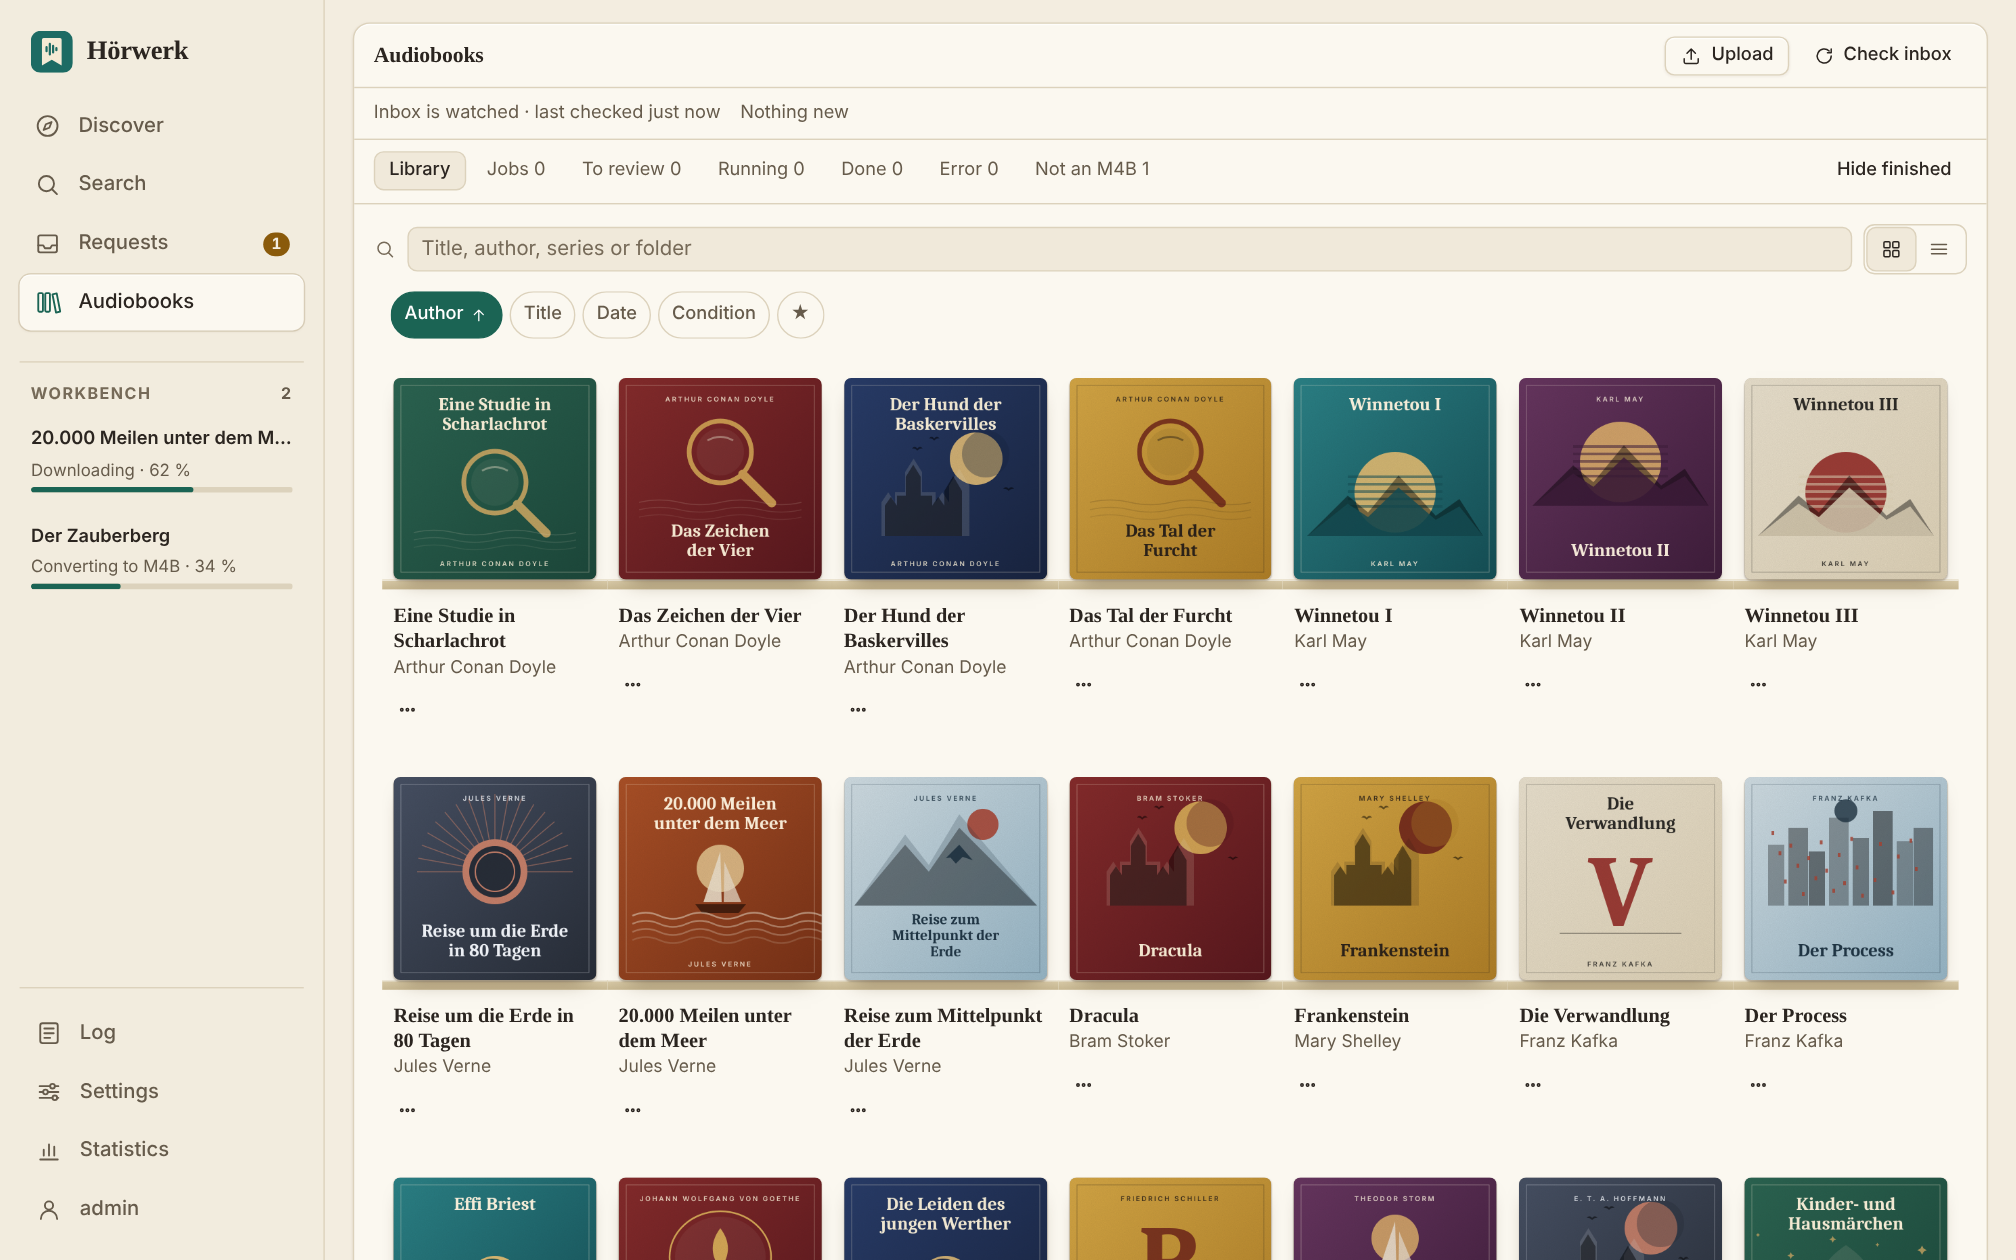
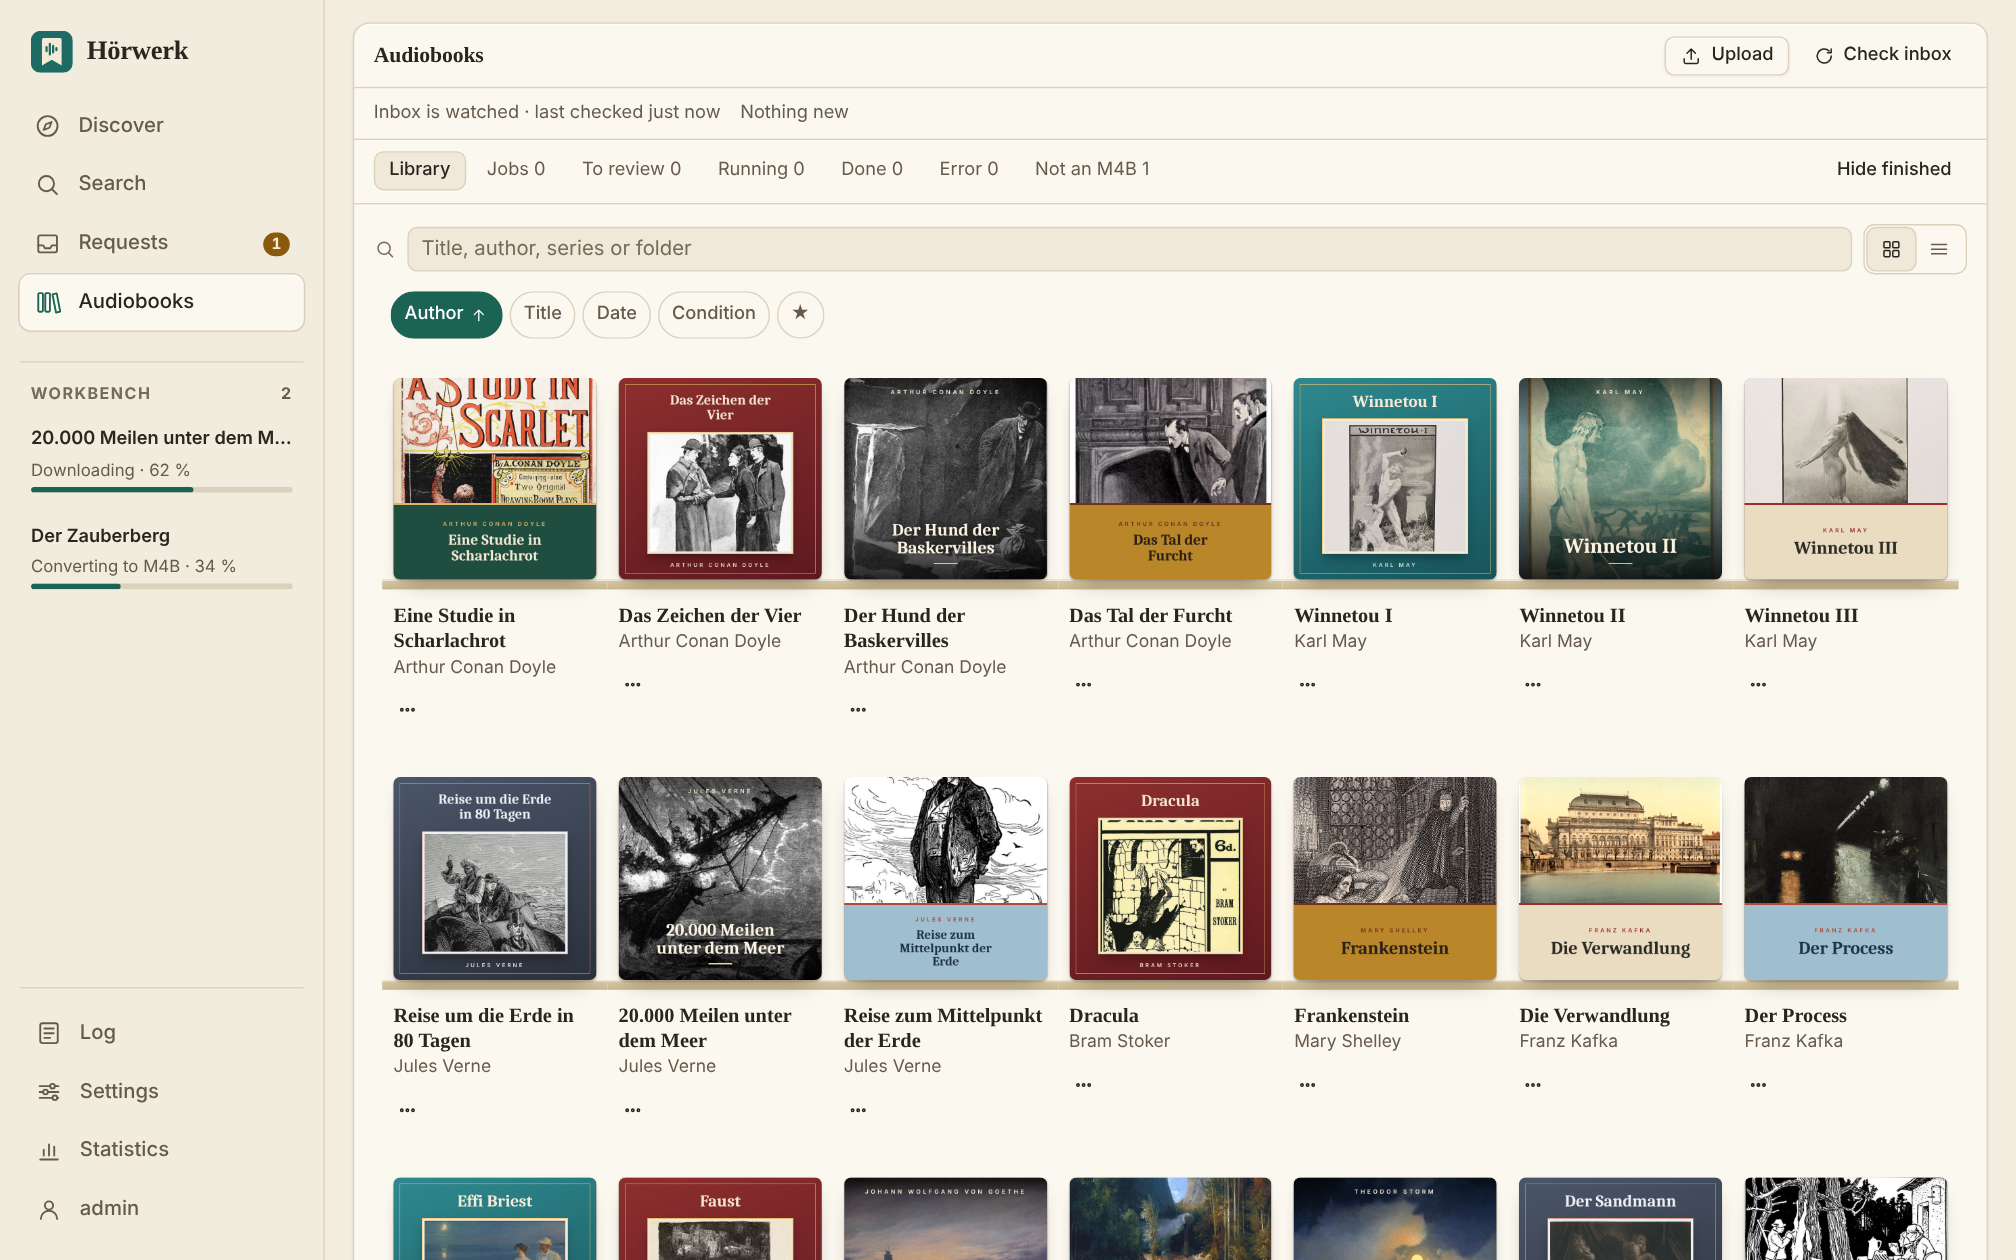
Screenshots: covers with public-domain artwork from Wikimedia Commons
Each demo book now shows a public-domain picture (original illustrations
such as Paget, Schneider, Wyeth, Tenniel, or paintings such as Friedrich,
Krøyer, Aivazovsky) in one of three layouts with own typography. Only
files that Commons marks as public domain are used; artist, licence and
source are listed in docs/screenshots/CREDITS.md.

Claude-Session: https://claude.ai/code/session_01N1omeBwFWsjEMRmz9BAzC7

diff --git a/docs/screenshots/CREDITS.md b/docs/screenshots/CREDITS.md
@@ -1,0 +1,49 @@
+# Pictures in the screenshots
+
+The covers of the demo library combine public-domain artwork from Wikimedia Commons with Hörwerk's own typography.
+The books are public-domain works. `scripts/screenshots/shoot.mjs` makes the screenshots.
+
+| Book | Artist | Licence | Source |
+|---|---|---|---|
+| Eine Studie in Scharlachrot | David Henry Friston (1887-12) | Public domain | [A Study in Scarlet from Beeton's Christmas Annual 1887.jpg](https://commons.wikimedia.org/wiki/File:A_Study_in_Scarlet_from_Beeton%27s_Christmas_Annual_1887.jpg) |
+| Das Zeichen der Vier | Sidney Paget (1892) | Public domain | [Sidney Paget - The Adventure of the Speckled Band 01.jpg](https://commons.wikimedia.org/wiki/File:Sidney_Paget_-_The_Adventure_of_the_Speckled_Band_01.jpg) |
+| Der Hund der Baskervilles | Sidney Paget (1860-1908) (1902) | Public domain | [Houn-42 - Frontispiece (Hound of Baskervilles).jpg](https://commons.wikimedia.org/wiki/File:Houn-42_-_Frontispiece_(Hound_of_Baskervilles).jpg) |
+| Das Tal der Furcht | Sidney Paget (1860 - 1908) (1904) | Public domain | [Sherlock Holmes - The Adventure of the Abbey Grange - Sidney Paget.jpg](https://commons.wikimedia.org/wiki/File:Sherlock_Holmes_-_The_Adventure_of_the_Abbey_Grange_-_Sidney_Paget.jpg) |
+| Winnetou I | Sascha Schneider (between 1904 and 1905) | Public domain | [Sascha Schneider Empor zum Licht 07 Winnetou I.jpg](https://commons.wikimedia.org/wiki/File:Sascha_Schneider_Empor_zum_Licht_07_Winnetou_I.jpg) |
+| Winnetou II | Sascha Schneider (1905) | Public domain | [Karl May Winnetou II Schneider 001.jpg](https://commons.wikimedia.org/wiki/File:Karl_May_Winnetou_II_Schneider_001.jpg) |
+| Winnetou III | Sascha Schneider (between 1904 and 1905) | Public domain | [Sascha Schneider Empor zum Licht 09 Winnetou III.jpg](https://commons.wikimedia.org/wiki/File:Sascha_Schneider_Empor_zum_Licht_09_Winnetou_III.jpg) |
+| Reise um die Erde in 80 Tagen | Alphonse de Neuville (1835-1885) and/or Léon Benett (1838-1917) (1872) | Public domain | ['Around the World in Eighty Days' by Neuville and Benett 18.jpg](https://commons.wikimedia.org/wiki/File:%27Around_the_World_in_Eighty_Days%27_by_Neuville_and_Benett_18.jpg) |
+| 20.000 Meilen unter dem Meer | Alphonse de Neuville / Édouard Riou (1870) | Public domain | [Giant squid twenty thousand leagues under the sea.jpg](https://commons.wikimedia.org/wiki/File:Giant_squid_twenty_thousand_leagues_under_the_sea.jpg) |
+| Reise zum Mittelpunkt der Erde | Édouard Riou (1864) | Public domain | ['Journey to the Center of the Earth' by Édouard Riou 16.jpg](https://commons.wikimedia.org/wiki/File:%27Journey_to_the_Center_of_the_Earth%27_by_%C3%89douard_Riou_16.jpg) |
+| Dracula | AnonymousUnknown author (1901) | Public domain | [Dracula Archibald Constable and Company 1901.jpg](https://commons.wikimedia.org/wiki/File:Dracula_Archibald_Constable_and_Company_1901.jpg) |
+| Frankenstein | Theodor von Holst (1831) | Public domain | [Frontispiece to Frankenstein 1831.jpg](https://commons.wikimedia.org/wiki/File:Frontispiece_to_Frankenstein_1831.jpg) |
+| Die Verwandlung | ? (between 1890 and 1900) | Public domain | [National Theatre, Prague, Bohemia, Austro-Hungary WDL2630.png](https://commons.wikimedia.org/wiki/File:National_Theatre,_Prague,_Bohemia,_Austro-Hungary_WDL2630.png) |
+| Der Process | Lesser Ury (circa 1920) | Public domain | [Lesser Ury - Nächtliche Strassenszene, Berlin (1920).jpg](https://commons.wikimedia.org/wiki/File:Lesser_Ury_-_N%C3%A4chtliche_Strassenszene,_Berlin_(1920).jpg) |
+| Effi Briest | Peder Severin Krøyer (1899) | Public domain | [P S Krøyer 1899 - Sommeraften ved Skagens strand. Kunstneren og hans hustru.jpg](https://commons.wikimedia.org/wiki/File:P_S_Kr%C3%B8yer_1899_-_Sommeraften_ved_Skagens_strand._Kunstneren_og_hans_hustru.jpg) |
+| Faust | Print made by: Eugène Delacroix Printed by: Villain (1827) | Public domain | [Méphistophélès apparaissant à Faust (Mephistopheles appearing to Faust) (BM 1924,1014.7.6).jpg](https://commons.wikimedia.org/wiki/File:M%C3%A9phistoph%C3%A9l%C3%A8s_apparaissant_%C3%A0_Faust_(Mephistopheles_appearing_to_Faust)_(BM_1924,1014.7.6).jpg) |
+| Die Leiden des jungen Werther | Caspar David Friedrich (1822) | Public domain | [Caspar David Friedrich - Mondaufgang am Meer - Google Art Project.jpg](https://commons.wikimedia.org/wiki/File:Caspar_David_Friedrich_-_Mondaufgang_am_Meer_-_Google_Art_Project.jpg) |
+| Die Räuber | Carl Blechen (1831) | Public domain | [Carl Blechen - Schlucht bei Amalfi - Google Art Project.jpg](https://commons.wikimedia.org/wiki/File:Carl_Blechen_-_Schlucht_bei_Amalfi_-_Google_Art_Project.jpg) |
+| Der Schimmelreiter | Ivan Aivazovsky (before 1866) | Public domain | [Storm at Sea on a Moonlit Night (Aivazovsky).jpg](https://commons.wikimedia.org/wiki/File:Storm_at_Sea_on_a_Moonlit_Night_(Aivazovsky).jpg) |
+| Der Sandmann | Thomas Burke (artist), after Henry Fuseli (Johann Heinrich Füssli) (1783) | Public domain | [Thomas Burke The Nightmare engraving.jpg](https://commons.wikimedia.org/wiki/File:Thomas_Burke_The_Nightmare_engraving.jpg) |
+| Kinder- und Hausmärchen | Otto Ubbelohde (1909) | Public domain | [Otto Ubbelohde - Rotkäppchen 2.jpg](https://commons.wikimedia.org/wiki/File:Otto_Ubbelohde_-_Rotk%C3%A4ppchen_2.jpg) |
+| Die schönsten Märchen | Vilhelm Pedersen (1905) | Public domain | [Vilhelm Pedersen Fem fra en Ærtebælg Andersen 01.jpg](https://commons.wikimedia.org/wiki/File:Vilhelm_Pedersen_Fem_fra_en_%C3%86rteb%C3%A6lg_Andersen_01.jpg) |
+| Die Schatzinsel | N. C. Wyeth (1911) | Public domain | [N. C. Wyeth - Treasure Island - The Hostage.jpg](https://commons.wikimedia.org/wiki/File:N._C._Wyeth_-_Treasure_Island_-_The_Hostage.jpg) |
+| Dr. Jekyll und Mr. Hyde | John Atkinson Grimshaw (2016-12-05) | Public domain | [John Atkinson Grimshaw - Night vigil.jpg](https://commons.wikimedia.org/wiki/File:John_Atkinson_Grimshaw_-_Night_vigil.jpg) |
+| Die Zeitmaschine | Albert Robida (1883) | Public domain | [Robida - Le vingtième siècle - cover.jpg](https://commons.wikimedia.org/wiki/File:Robida_-_Le_vingti%C3%A8me_si%C3%A8cle_-_cover.jpg) |
+| Der Krieg der Welten | Henrique Alvim Corrêa (1906) | Public domain | [The War of the Worlds by Henrique Alvim Corrêa, original graphic 15.jpg](https://commons.wikimedia.org/wiki/File:The_War_of_the_Worlds_by_Henrique_Alvim_Corr%C3%AAa,_original_graphic_15.jpg) |
+| Stolz und Vorurteil | Hugh Thomson (February 1894) | Public domain | [Houghton Typ 805.94.8320 - Pride and Prejudice, 1894, Hugh Thomson - superior dancing.jpg](https://commons.wikimedia.org/wiki/File:Houghton_Typ_805.94.8320_-_Pride_and_Prejudice,_1894,_Hugh_Thomson_-_superior_dancing.jpg) |
+| Emma | C. E. Brock (died 1938) (1909) | Public domain | [Emma CE Brock 1909 Vol III Chapter III.jpg](https://commons.wikimedia.org/wiki/File:Emma_CE_Brock_1909_Vol_III_Chapter_III.jpg) |
+| Jane Eyre | Edmund H. Garrett (1890) | Public domain | [Edmund Henry Garrett - Illustration for Jane Eyre.png](https://commons.wikimedia.org/wiki/File:Edmund_Henry_Garrett_-_Illustration_for_Jane_Eyre.png) |
+| Eine Weihnachtsgeschichte | John Leech (29 August 1817 – 29 October 1864 in London) (2013-03-24 12:59:04) | Public domain | [A Christmas Carol, Mr Fezziwig's Ball, by John Leech.jpg](https://commons.wikimedia.org/wiki/File:A_Christmas_Carol,_Mr_Fezziwig%27s_Ball,_by_John_Leech.jpg) |
+| Oliver Twist | George Cruikshank (circa 1837) | Public domain | [George Cruikshank Oliver Twist.gif](https://commons.wikimedia.org/wiki/File:George_Cruikshank_Oliver_Twist.gif) |
+| Anna Karenina | Ivan Kramskoi (1883) | Public domain | [Kramskoy Portrait of a Woman.jpg](https://commons.wikimedia.org/wiki/File:Kramskoy_Portrait_of_a_Woman.jpg) |
+| Schuld und Sühne | Photochrom Print Collection (between 1890 and 1900) | Public domain | [Alexander's Column, St. Petersburg, Russia-LCCN2001697508.jpg](https://commons.wikimedia.org/wiki/File:Alexander%27s_Column,_St._Petersburg,_Russia-LCCN2001697508.jpg) |
+| Alice im Wunderland | John Tenniel (1890) | Public domain | [John Tenniel - Illustration from The Nursery Alice (1890) - c03757 07.jpg](https://commons.wikimedia.org/wiki/File:John_Tenniel_-_Illustration_from_The_Nursery_Alice_(1890)_-_c03757_07.jpg) |
+| Pinocchio | Carlo Chiostri (1902) | Public domain | [Le avventure di Pinocchio-pag007.jpg](https://commons.wikimedia.org/wiki/File:Le_avventure_di_Pinocchio-pag007.jpg) |
+| Heidi | Ferdinand Hodler (1908) | Public domain | [Hodler - Eiger, Mönch und Jungfrau über dem Nebelmeer - 1908.jpg](https://commons.wikimedia.org/wiki/File:Hodler_-_Eiger,_M%C3%B6nch_und_Jungfrau_%C3%BCber_dem_Nebelmeer_-_1908.jpg) |
+| Buddenbrooks | ? (between 1890 and 1900) | Public domain | [General view, Lubeck, Germany-LCCN2002713934.tif](https://commons.wikimedia.org/wiki/File:General_view,_Lubeck,_Germany-LCCN2002713934.tif) |
+| Der Zauberberg | Ernst Ludwig Kirchner (Executed circa 1926) | Public domain | [Ernst ludwig kirchner davos im winter d6358278125007).jpg](https://commons.wikimedia.org/wiki/File:Ernst_ludwig_kirchner_davos_im_winter_d6358278125007).jpg) |
+| Moby Dick | Ambroise Louis Garneray (early 1800's) | Public domain | [Pesche De La Baleine Garneray.jpg](https://commons.wikimedia.org/wiki/File:Pesche_De_La_Baleine_Garneray.jpg) |
+| Die Abenteuer des Tom Sawyer | True Williams, Mark Twain (1876) | Public domain | [Adventures of Tom Sawyer-pg040.png](https://commons.wikimedia.org/wiki/File:Adventures_of_Tom_Sawyer-pg040.png) |
+| Der Untergang des Hauses Usher | Edgar Allan Poe | Public domain | [MU KPB 036 Tales of Mystery and Imagination by Edgar Allan Poe (page 149 crop).jpg](https://commons.wikimedia.org/wiki/File:MU_KPB_036_Tales_of_Mystery_and_Imagination_by_Edgar_Allan_Poe_(page_149_crop).jpg) |
+| Nils Holgersson | Bruno Liljefors (1927) | Public domain | [Bruno Liljefors - Wild Geese 1927.jpg](https://commons.wikimedia.org/wiki/File:Bruno_Liljefors_-_Wild_Geese_1927.jpg) |

diff --git a/docs/development.md b/docs/development.md
@@ -44,8 +44,9 @@ against the source and against the finished Docker image.
 ## README screenshots
 
 `scripts/screenshots/shoot.mjs` makes the screenshots and the demo GIF in `docs/screenshots/en` and `docs/screenshots/de`.
-It starts the real server and shows a demo library in the browser: public-domain books (`books.mjs`) with cover art
-that the script draws itself (`covers.mjs`). No real cover art is used.
+It starts the real server and shows a demo library in the browser: public-domain books (`books.mjs`). Their covers use
+public-domain artwork from Wikimedia Commons (`art.mjs`, cached in `scripts/screenshots/.art`) with own typography
+(`covers.mjs`). The script writes the credits to `docs/screenshots/CREDITS.md`.
 
 ```bash
 npm run build && (cd rust && cargo build --release) && node scripts/screenshots/shoot.mjs

diff --git a/README.md b/README.md
@@ -88,7 +88,7 @@ We build it again each week for security updates. Cosign signs it.
 
 > Use Hörwerk only for audio that you have the right to use: your purchases, your recordings or public-domain works.
 > Hörwerk contains no media. It has no connection to Audible, Amazon, Apple, LibriVox or other services in this text.
-> The books in the screenshots are public-domain classics. Hörwerk draws their covers itself for the demo.
+> The books in the screenshots are public-domain classics. Their covers use public-domain artwork ([credits](docs/screenshots/CREDITS.md)).
 
 ## How it came about
 

diff --git a/README.de.md b/README.de.md
@@ -91,7 +91,7 @@ Sicherheitsupdates neu gebaut, mit cosign signiert.
 
 > Hörwerk verwaltet Audiodateien, die du nutzen darfst – eigene Käufe, eigene Aufnahmen oder gemeinfreie Werke.
 > Es enthält keine Medien und steht in keiner Verbindung zu Audible, Amazon, Apple, LibriVox oder anderen genannten
-> Diensten. Die Hörbücher in den Screenshots sind gemeinfreie Klassiker mit eigens gezeichneten Covern.
+> Diensten. Die Hörbücher in den Screenshots sind gemeinfreie Klassiker, ihre Cover nutzen gemeinfreie Kunstwerke ([Nachweise](docs/screenshots/CREDITS.md)).
 
 ## Entstehung
 
